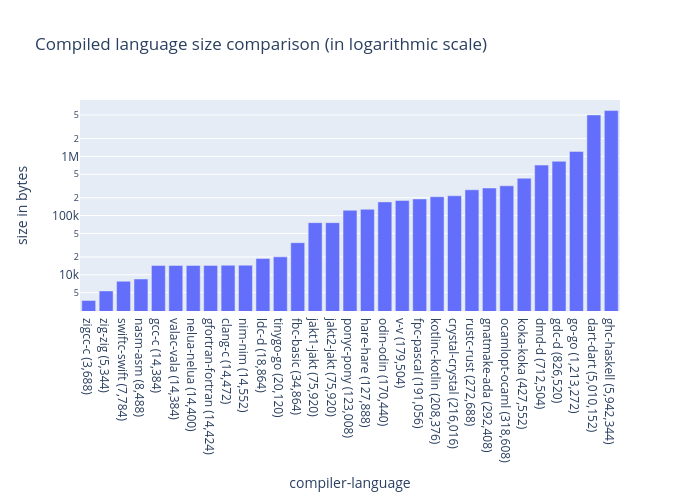
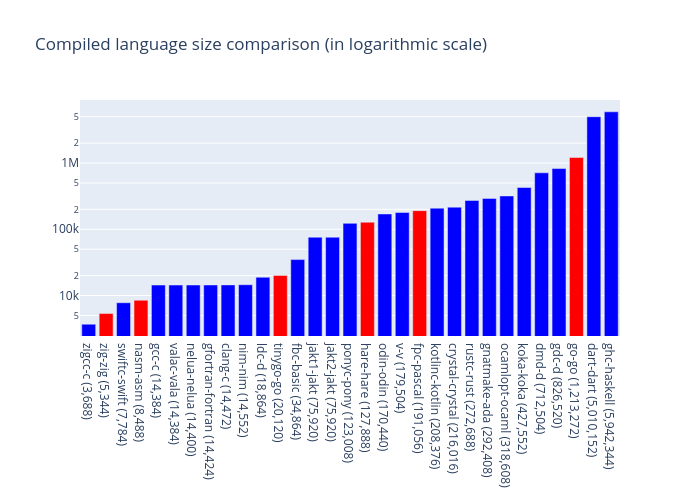
feat: add linking method to all languages

diff --git a/scripts/bar_chart.py b/scripts/bar_chart.py
@@ -1,23 +1,53 @@
 #!/usr/bin/env python3
 
-import plotly.express as px
+import plotly.graph_objects as go
 
-file = open("size.txt", "r")
-size_data = file.readlines()
+sizetxt = open("size.txt", "r")
+filetypetxt = open("filetype.txt", "r")
+size_data = sizetxt.readlines()
+
+
+def get_linking(file: str) -> str:
+    if "static" in file:
+        return "red"  # Static is in red
+    else:
+        return "blue"  # Dynamic is in blue
+
+
+filetype_data = list(map(lambda line: (
+    line.strip().split('/')[1].split(':')[0],
+    get_linking(line),
+), filetypetxt.readlines()))
+
+
+def get_filetype(name: str) -> str:
+    return list(filter(lambda x: x[0] in name, filetype_data))[0][1]
+
 
 lang_size = list(
     map(lambda x: int(''.join(x.split()[0].split(","))), size_data))
 lang_name = list(map(lambda x: f"{x.split()[1]} ({x.split()[0]})", size_data))
+lang_link = list(map(lambda x: get_filetype(x), lang_name))
 
 
 def generate_image(log: bool):
-    fig = px.bar(
-        title=f"Compiled language size comparison {'(in logarithmic scale)' if log else ''}",
+    title = f"Compiled language size comparison {'(in logarithmic scale)' if log else ''}"
+    # TODO
+    labels = {"x": "compiler-language", "y": "size in bytes"}
+
+    bar = go.Bar(
         x=lang_name,
         y=lang_size,
-        labels={"x": "compiler-language", "y": "size in bytes"},
-        log_y=log
+        marker_color=lang_link
     )
+
+    fig = go.Figure(data=bar)
+    if log:
+        fig.update_yaxes(type="log")
+
+    fig.update_annotations(row="compiler-language")
+
+    fig.update_layout(title_text=title)
 
     output = open(f"assets/chart{'_log' if log else ''}.png", "wb")
     output.write(fig.to_image("png"))
@@ -28,4 +58,4 @@ if __name__ == "__main__":
     generate_image(False)
     generate_image(True)
 
-    file.close()
+    sizetxt.close()

diff --git a/scripts/generate_readme.py b/scripts/generate_readme.py
@@ -4,13 +4,28 @@ readme = open("README.md", "w")
 
 sizetxt = open("size.txt",  "r")
 versiontxt = open("version.txt",  "r")
+filetypetxt = open("filetype.txt", "r")
 size = sizetxt.readlines()
 version = versiontxt.readlines()
+filetype = filetypetxt.readlines()
 
-version_data = list(map(lambda x: (
-    x.strip().split('|')[0],
-    x.strip().split('|')[1],
+version_data = list(map(lambda line: (
+    line.strip().split('|')[0],
+    line.strip().split('|')[1],
 ), version))
+
+
+def get_linking(file: str) -> str:
+    if "static" in file:
+        return "statically linked"
+    else:
+        return "dynamically linked"
+
+
+filetype_data = list(map(lambda line: (
+    get_linking(line),
+    line.strip().split('/')[1].split(':')[0]
+), filetype))
 
 
 def get_version_number(compiler: str) -> (str | None):
@@ -20,10 +35,15 @@ def get_version_number(compiler: str) -> (str | None):
     return None
 
 
+def get_filetype(name: str) -> str:
+    return list(filter(lambda data: data[1] == name, filetype_data))[0][0]
+
+
 data = list(map(lambda x: (
     x.strip().split(' ')[1].split('-')[1],
     x.strip().split(' ')[1].split('-')[0],
     get_version_number(x.strip().split(' ')[1].split('-')[0]),
+    get_filetype(x.strip().split(' ')[1]),
     x.strip().split(' ')[0],
 ), size))
 
@@ -49,9 +69,9 @@ Logarithmic scale:
 
 ### Table
 
-| language | compiler | version | size (in bytes) |
-| -------- | -------- | ---------- | --------------- |
-{new_line.join(list(map(lambda x: f"|{x[0]}|{x[1]}|{x[2]}|{x[3]}|" ,data)))}
+| language | compiler | version | linking | size (in bytes) |
+| -------- | -------- | ------- | ------- | --------------- |
+{new_line.join(list(map(lambda x: f"|{x[0]}|{x[1]}|{x[2]}|{x[3]}|{x[4]}|" ,data)))}
 
 """
 

diff --git a/README.md b/README.md
@@ -17,36 +17,36 @@ Logarithmic scale:
 
 ### Table
 
-| language | compiler | version | size (in bytes) |
-| -------- | -------- | ---------- | --------------- |
-|c|zigcc|clang version 15.0.3 (git@github.com:ziglang/zig-bootstrap.git 0ce789d0f7a4d89fdc4d9571209b6874d3e260c9)|3,688|
-|zig|zig|0.10.0-dev.4707+209a0d2a8|5,344|
-|swift|swiftc|Swift version 5.6 (swift-5.6-RELEASE)|7,784|
-|asm|nasm|NASM version 2.15.05 compiled on Sep 24 2020|8,488|
-|c|gcc|gcc (GCC) 12.2.0|14,384|
-|vala|valac|Vala 0.56.3|14,384|
-|nelua|nelua|Nelua 0.2.0-dev|14,400|
-|fortran|gfortran|GNU Fortran (GCC) 12.2.0|14,424|
-|c|clang|clang version 14.0.6|14,472|
-|nim|nim|Nim Compiler Version 1.6.8 [Linux: amd64]|14,552|
-|d|ldc|LDC - the LLVM D compiler (1.30.0):|18,864|
-|go|tinygo|tinygo version 0.26.0 linux/amd64 (using go version go1.19.2 and LLVM version 14.0.0)|20,120|
-|basic|fbc|FreeBASIC Compiler - Version 1.09.0 (2022-02-16), built for linux-x86_64 (64bit)|34,864|
-|jakt|jakt1|None|75,920|
-|jakt|jakt2|None|75,920|
-|pony|ponyc|0.43.1- [release]|123,008|
-|hare|hare|Hare dev+b00d4a6f-arch|127,888|
-|odin|odin|odin version dev-2022-10:2cd895c5|170,440|
-|v|v|V 0.3.1 f2f6ea5|179,504|
-|pascal|fpc|Free Pascal Compiler version 3.2.2 [2022/08/31] for x86_64|191,056|
-|kotlin|kotlinc|Kotlin/Native: 1.7.10|208,376|
-|crystal|crystal|Crystal 1.6.1 (2022-10-24)|216,016|
-|rust|rustc|rustc 1.66.0-nightly (db0597f56 2022-10-11)|272,688|
-|ada|gnatmake|GNATMAKE 12.2.0|292,408|
-|ocaml|ocamlopt|4.14.0|318,608|
-|koka|koka|Koka 2.3.8, 10:27:37 Dec 27 2021 (ghc release version)|427,552|
-|d|dmd|DMD64 D Compiler v2.100.2|712,504|
-|d|gdc|gdc (GCC) 12.2.0|826,520|
-|go|go|go version go1.19.2 linux/amd64|1,213,272|
-|dart|dart|Dart SDK version: 2.18.3 (stable) (Mon Oct 17 13:23:20 2022 +0000) on "linux_x64"|5,010,152|
-|haskell|ghc|The Glorious Glasgow Haskell Compilation System, version 9.0.2|5,942,344|
+| language | compiler | version | linking | size (in bytes) |
+| -------- | -------- | ------- | ------- | --------------- |
+|c|zigcc|clang version 15.0.3 (git@github.com:ziglang/zig-bootstrap.git 0ce789d0f7a4d89fdc4d9571209b6874d3e260c9)|dynamically linked|3,688|
+|zig|zig|0.10.0-dev.4707+209a0d2a8|statically linked|5,344|
+|swift|swiftc|Swift version 5.6 (swift-5.6-RELEASE)|dynamically linked|7,784|
+|asm|nasm|NASM version 2.15.05 compiled on Sep 24 2020|statically linked|8,488|
+|c|gcc|gcc (GCC) 12.2.0|dynamically linked|14,384|
+|vala|valac|Vala 0.56.3|dynamically linked|14,384|
+|nelua|nelua|Nelua 0.2.0-dev|dynamically linked|14,400|
+|fortran|gfortran|GNU Fortran (GCC) 12.2.0|dynamically linked|14,424|
+|c|clang|clang version 14.0.6|dynamically linked|14,472|
+|nim|nim|Nim Compiler Version 1.6.8 [Linux: amd64]|dynamically linked|14,552|
+|d|ldc|LDC - the LLVM D compiler (1.30.0):|dynamically linked|18,864|
+|go|tinygo|tinygo version 0.26.0 linux/amd64 (using go version go1.19.2 and LLVM version 14.0.0)|statically linked|20,120|
+|basic|fbc|FreeBASIC Compiler - Version 1.09.0 (2022-02-16), built for linux-x86_64 (64bit)|dynamically linked|34,864|
+|jakt|jakt1|None|dynamically linked|75,920|
+|jakt|jakt2|None|dynamically linked|75,920|
+|pony|ponyc|0.43.1- [release]|dynamically linked|123,008|
+|hare|hare|Hare dev+b00d4a6f-arch|statically linked|127,888|
+|odin|odin|odin version dev-2022-10:2cd895c5|dynamically linked|170,440|
+|v|v|V 0.3.1 f2f6ea5|dynamically linked|179,504|
+|pascal|fpc|Free Pascal Compiler version 3.2.2 [2022/08/31] for x86_64|statically linked|191,056|
+|kotlin|kotlinc|Kotlin/Native: 1.7.10|dynamically linked|208,376|
+|crystal|crystal|Crystal 1.6.1 (2022-10-24)|dynamically linked|216,016|
+|rust|rustc|rustc 1.66.0-nightly (db0597f56 2022-10-11)|dynamically linked|272,688|
+|ada|gnatmake|GNATMAKE 12.2.0|dynamically linked|292,408|
+|ocaml|ocamlopt|4.14.0|dynamically linked|318,608|
+|koka|koka|Koka 2.3.8, 10:27:37 Dec 27 2021 (ghc release version)|dynamically linked|427,552|
+|d|dmd|DMD64 D Compiler v2.100.2|dynamically linked|712,504|
+|d|gdc|gdc (GCC) 12.2.0|dynamically linked|826,520|
+|go|go|go version go1.19.2 linux/amd64|statically linked|1,213,272|
+|dart|dart|Dart SDK version: 2.18.3 (stable) (Mon Oct 17 13:23:20 2022 +0000) on "linux_x64"|dynamically linked|5,010,152|
+|haskell|ghc|The Glorious Glasgow Haskell Compilation System, version 9.0.2|dynamically linked|5,942,344|
